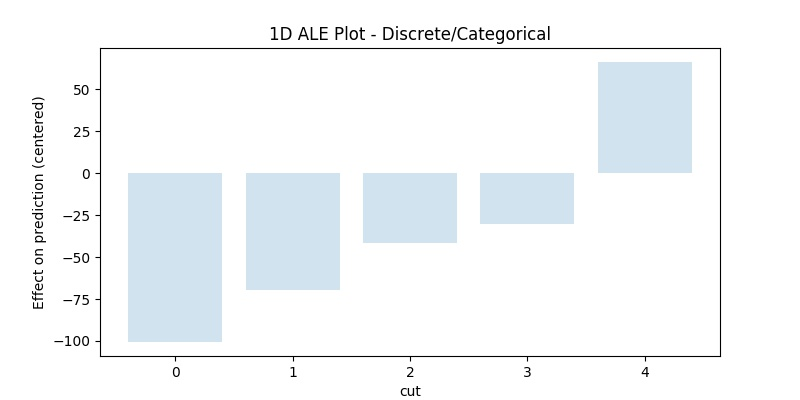
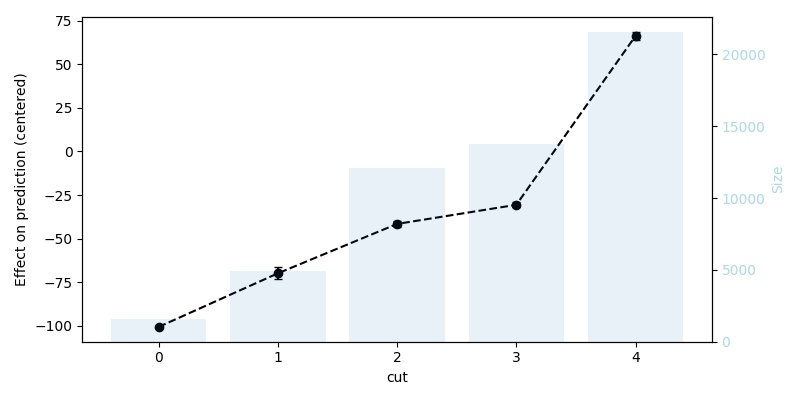
update the README with examples and interpretations for the discrete features

diff --git a/README.md b/README.md
@@ -6,8 +6,8 @@ A python implementation of the ALE plots based on the implementation of the R pa
 **Disclaimer:** This is still a work in progress project so the code still have some missing pieces. The end goal is to release as a Python package in pypi.
 
 ## Features:
-* Effect of one numeric feature with the option of computing a confidence interval of the effect
-* Effect of one discrete or categorical features
+* Effect of one numeric feature with the option of computing a confidence interval of the effect.
+* Effect of one discrete or categorical features with the option of computing a confidence interval of the effect.
 * Effect of two numeric feature
 
 ## Usage with examples:
@@ -129,7 +129,7 @@ ax2.set_xlabel("width of top of diamond relative to widest point (43–95)")
 ```python
 random.seed(123)
 X_sample = X.loc[random.sample(X.index.to_list(), 1000), :]
-ale_eff = ale(
+ale_contin = ale(
     X=X_sample, 
     model=model,
     feature='carat', 
@@ -141,23 +141,51 @@ ale_eff = ale(
 
 ![1D ALE Plot](examples/plots/interpretation_Ex.jpeg)
 
-The algorithm cuts the feature to bins statring from the minimum value and ending with the maximum of the feature, then computes the average difference in prediction when the value of the feature moves between the edges of each bin, finally returns the centered cumulative sum of these averages (and the confidence interval of the differences - optional). 
+For continuous variables the algorithm cuts the feature to bins starting from the minimum value and ending with the maximum value of the feature, then computes the average difference in prediction when the value of the feature moves between the edges of each bin, finally returns the centered cumulative sum of these averages (and the confidence interval of the differences - optional). 
 
 ```python
-ale_res
+ale_contin
 ```
-|  carat  | size    |    eff       | lowerCI_95%   | upperCI_95%    |
-| ------  | ------  | -----------  | -----------   | -----------    |
-| 0.23    |   0.0   |-1837.001629  |          NaN  |        NaN     |
-| 0.38    | 215.0   |-1744.987885  | -1760.904293  |  -1729.071477  |
-| 0.56    | 189.0   |-1434.286959  | -1469.568429  |  -1399.005489  |
-| 0.90    | 201.0   |  205.224732  |   154.492631  |    255.956834  |
-| 1.18    | 195.0   | 1647.159091  |  1491.228257  |   1803.089926  |
-| 3.00    | 200.0   | 4637.027675  |  4307.809865  |   4966.245485  |
+|  carat  |    eff      | size   | lowerCI_95%   | upperCI_95%    |
+| ------  | ----------- | ------ | -----------   | -----------    |
+| 0.23    |-1837.001629 |   0.0  |          NaN  |        NaN     |
+| 0.38    |-1744.987885 | 215.0  | -1760.904293  |  -1729.071477  |
+| 0.56    |-1434.286959 | 189.0  | -1469.568429  |  -1399.005489  |
+| 0.90    |  205.224732 | 201.0  |   154.492631  |    255.956834  |
+| 1.18    | 1647.159091 | 195.0  |  1491.228257  |   1803.089926  |
+| 3.00    | 4637.027675 | 200.0  |  4307.809865  |   4966.245485  |
 
 What interests us when interpreting the results is the difference in the effect between the edges of the bins, in this example one can say that the value of the prediction increases by approximately 2990 (`4637 - 1647`) when the carat increases from 1.18 to 3.00, as can be seen in the last two lines. With this in mind we can see that the values of the confidence interval only makes sense starting from the second value (the upper edge of the first bin) and could also be compared with the eff value of the previous row as to give an idea of how much this difference can fluctuate (e.g., for the bin `(1.18, 3.00]` between 2660 and 3319 with 95% certainty).
 
 The lower edge of the first bin is in fact the minimum value of the feature in the given data, and it belongs to the first bin (unlike the following bins which contain the upper edge but not the lower). The size column contains the number of data points in the bin ending with the feature value in the corresponding row and starting with value before it (e.g., the bin `(1.18, 3.00]` has `200` data points).
+
+For categoricals or variables with discrete values the interpretation is similar and we also get the average difference in prediction, but instead of bins each value will be replaced once with the value before it and once with the value after it.
+
+```python
+ale_discr = ale(
+    X=X_sample, 
+    model=model,
+    feature='cut', 
+    feature_type='discrete',
+    include_CI=True,
+    C=0.95)
+```
+
+![1D ALE Plot](examples/plots/interpretation_discr_Ex.jpeg)
+
+We can also think of it from the perspective of bins as follows, every bin contains two consecutive values (or categories) from the feature, for example with the `cut` feature the bins are `[0, 1]`, `[1, 2]`, `[2, 3]`, `[3, 4]`, and what interests us is still the difference in the effect between the edges of the bins, as well as the range in which this difference fluctuate when taking the confidence interval into consideration. That being said the `size` column contains the number of data points in this category (**not** ~~the size of the data sample in the bin~~ anymore), this means to get the sample size in the bin one has to sum up the sample size of each value in it (e.g., in `[0, 1]` there is 38 + 82 data points)
+
+```python
+ale_discr
+```
+
+| cut |        eff  | size  | lowerCI_95%  | upperCI_95% |
+| --- | ----------- | ----- | -----------  | ----------- |
+| 0   | -97.899068  |   38  |         NaN  |         NaN |
+| 1   | -78.637401  |   82  |  -92.021015  |  -65.253787 |
+| 2   | -45.933788  |  204  |  -59.335160  |  -32.532416 |
+| 3   | -29.779222  |  276  |  -39.234601  |  -20.323843 |
+| 4   |  69.394974  |  400  |   51.432901  |   87.357046 |
 
 ### Ref.
 * https://cran.r-project.org/web/packages/ALEPlot/vignettes/AccumulatedLocalEffectPlot.pdf
